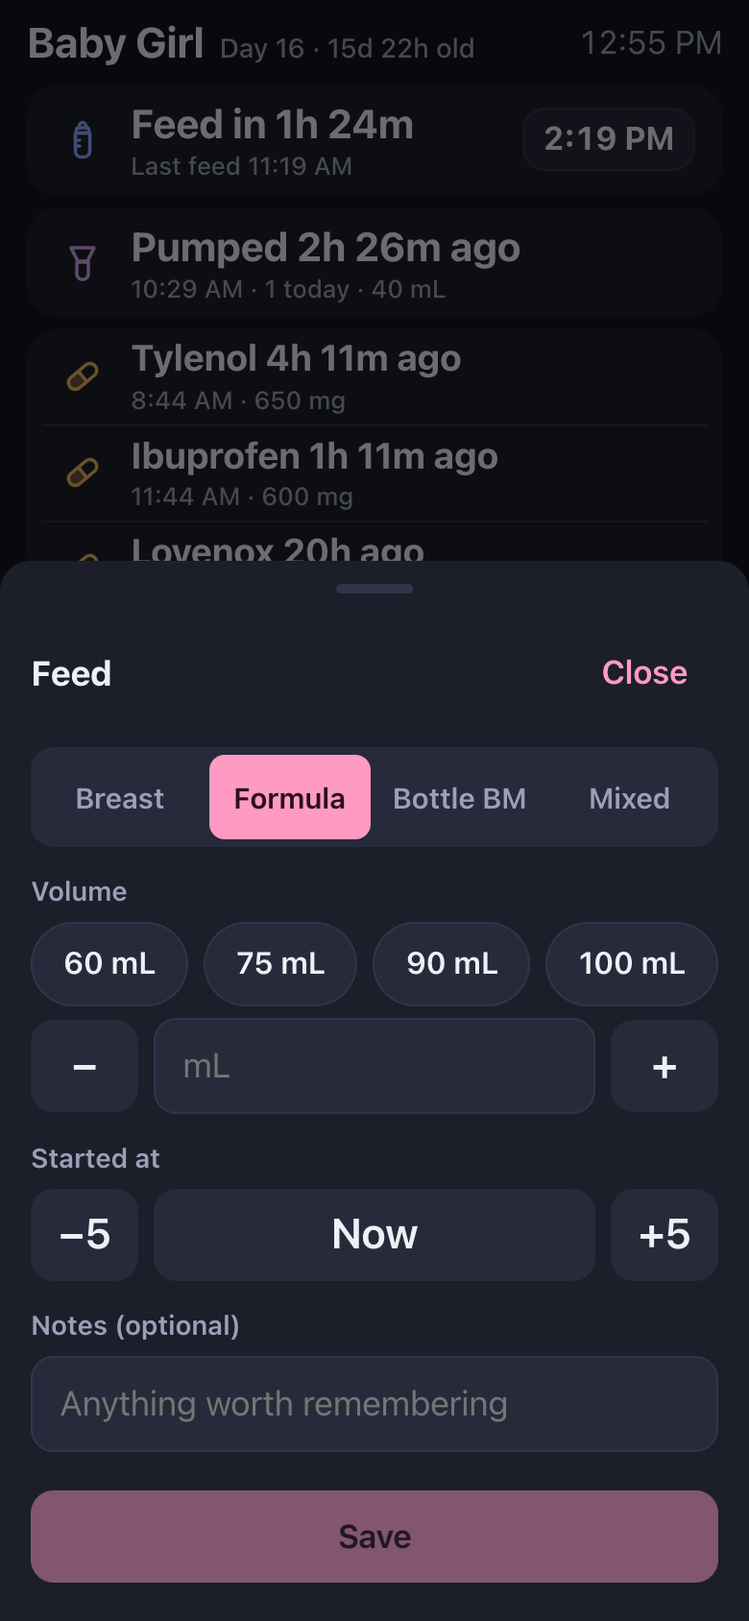
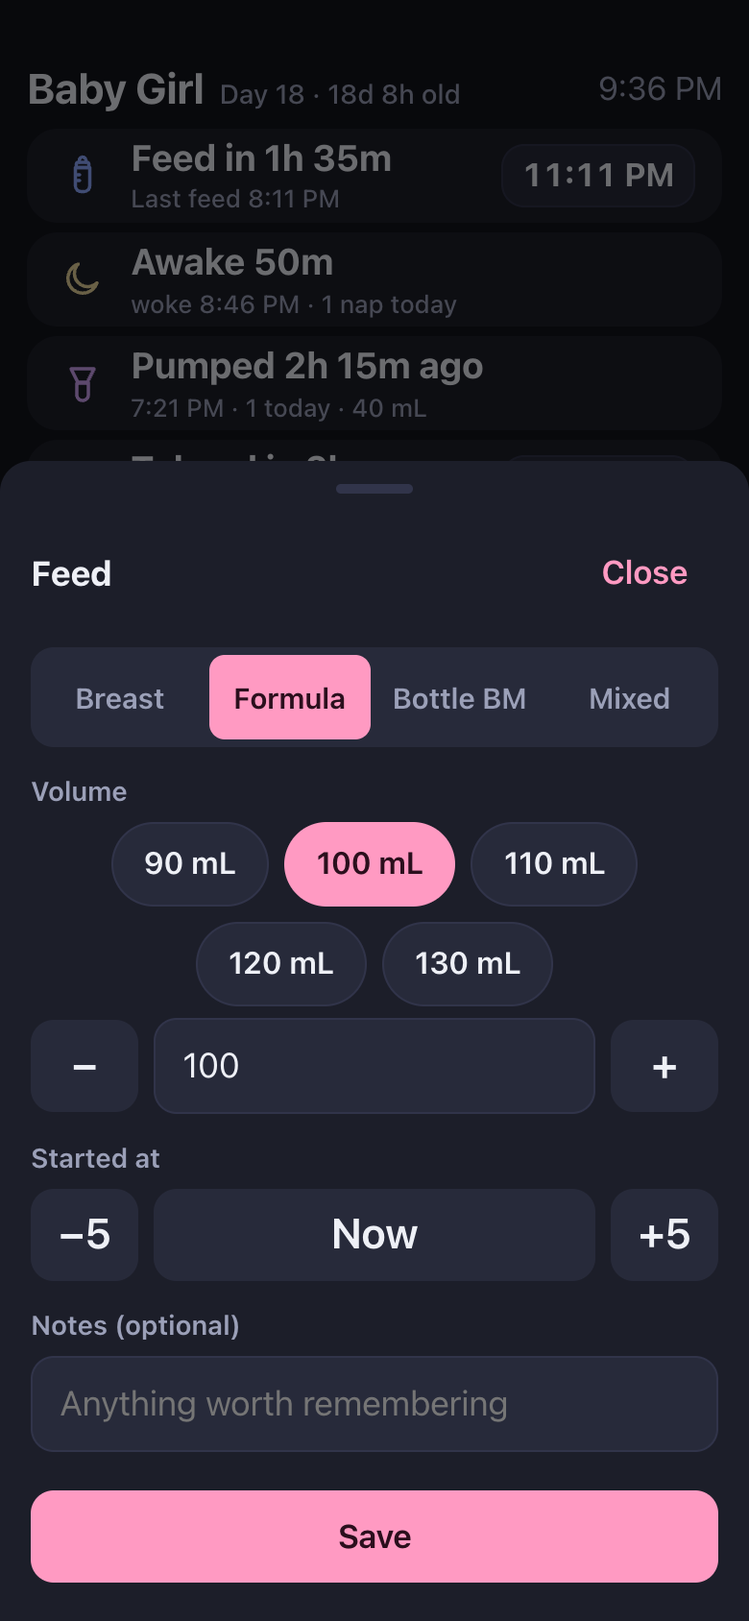
Wake-up sheet with both times; drop where/help from the sleep sheet; Marked Awake off by default; bottles start at 100 mL; release notes 1.24

diff --git a/src/components/editors.tsx b/src/components/editors.tsx
@@ -4,9 +4,10 @@ import { useUI, type EditorState } from '../ui';
 import {
   FEED_KINDS, STOOL_COLORS, STOOL_AMOUNTS, label,
   type Feed, type Diaper, type Pump, type MomMed, type Entry,
-  type FeedKind, type Side, type Latch, type StoolColor, type StoolAmount, type Med, type Sleep, type SleepHow, SLEEP_HOW, SLEEP_PLACES, type SleepPlace,
+  type FeedKind, type Side, type Latch, type StoolColor, type StoolAmount, type Med, type Sleep,
 } from '../types';
-import { isNightSleepAt, DEFAULT_NIGHT_SLEEP, defaultPlace } from '../lib/sleep';
+import { isNightSleepAt, DEFAULT_NIGHT_SLEEP } from '../lib/sleep';
+import { fmtTime } from '../lib/time';
 import { announceAwake } from './MarkedAwake';
 import { fmtDur } from '../lib/time';
 import { Sheet, Chips, Seg, Field, NumberPick, TimeField, NotesField } from './common';
@@ -53,7 +54,7 @@ export function FeedEditor({ entry, preset }: { entry?: Feed; preset?: { kind?: 
   const [kind, setKind] = useState<FeedKind>(entry?.kind ?? preset?.kind ?? ((localStorage.getItem(LAST_KIND) as FeedKind | null) || 'bottle_formula'));
   const [side, setSide] = useState<Side | undefined>(entry?.side);
   const [duration, setDuration] = useState<number | undefined>(entry?.duration_min);
-  const [volume, setVolume] = useState<number | undefined>(entry?.volume_ml);
+  const [volume, setVolume] = useState<number | undefined>(entry ? entry.volume_ml : 100);
   const [latch, setLatch] = useState<Latch | undefined>(entry?.latch_quality);
   const breast = kind === 'breast';
   const canSave = breast ? true : volume != null && volume > 0;
@@ -73,7 +74,7 @@ export function FeedEditor({ entry, preset }: { entry?: Feed; preset?: { kind?: 
           <Field label="Latch (optional)"><Chips options={[{ value: 'good', label: 'Good' }, { value: 'ok', label: 'OK' }, { value: 'poor', label: 'Poor' }]} value={latch} onChange={setLatch} /></Field>
         </>
       ) : (
-        <VolumePick label="Volume" value={volume} onChange={setVolume} presetsMl={[60, 75, 90, 100]} />
+        <VolumePick label="Volume" value={volume} onChange={setVolume} presetsMl={[90, 100, 110, 120, 130]} />
       )}
       <TimeField value={b.at} onChange={b.setAt} label="Started at" />
       <NotesField value={b.notes} onChange={b.setNotes} />
@@ -168,48 +169,45 @@ export function MedEditor({ entry, preset }: { entry?: MomMed; preset?: { med?: 
 
 export function SleepEditor({ entry }: { entry?: Sleep }) {
   const b = useEditorBase(entry);
-  const { settings, entries } = useStore();
+  const { settings } = useStore();
+  const { toast } = useUI();
   const window = settings.night_sleep ?? DEFAULT_NIGHT_SLEEP;
   const [nightTouched, setNightTouched] = useState(!!entry);
   const [nightPick, setNight] = useState<boolean>(entry?.night ?? isNightSleepAt(b.at, window));
   const night = nightTouched ? nightPick : isNightSleepAt(b.at, window);
-  const [how, setHow] = useState<SleepHow[]>(entry?.how ?? []);
-  const [endAt, setEndAt] = useState<number | null>(entry?.end_at ?? null);
-  // Where she slept: one place (where she slept most). New sleeps start where the last nap (or night) did.
-  const [placePick, setPlacePick] = useState<SleepPlace | null>(() => entry?.places?.length ? entry.places[entry.places.length - 1].place : null);
-  const [placeTouched, setPlaceTouched] = useState(!!entry);
-  const place: SleepPlace | null = placeTouched ? placePick : defaultPlace(entries, night);
-  // Tapping the pre-picked default confirms it; tapping a place you chose yourself again clears it.
-  const pickPlace = (p: SleepPlace) => { setPlacePick(placeTouched && place === p ? null : p); setPlaceTouched(true); };
-  const toggleHow = (h: SleepHow) => setHow((cur) => (cur.includes(h) ? cur.filter((x) => x !== h) : [...cur.filter((x) => x !== 'own'), h]));
+  const asleep = !!entry && entry.end_at == null;
+  // Waking her: the wake time starts at now and both times can be nudged before saving.
+  const [endAt, setEndAt] = useState<number | null>(asleep ? Date.now() : entry?.end_at ?? null);
   const bad = endAt != null && endAt <= b.at;
-  const save = (end = endAt) => b.save({ type: 'sleep', night, how: how.length ? how : undefined, places: place ? [{ at: b.at, place }] : undefined, end_at: end });
+  // Where/help are no longer asked; whatever an older sleep carries is kept as is.
+  const save = (end = endAt) => b.save({ type: 'sleep', night, how: entry?.how, places: entry?.places, end_at: end });
+  const wake = () => {
+    if (endAt == null || !entry) return;
+    save(endAt);
+    if (settings.marked_awake === true) announceAwake({ id: entry.id, at: endAt, sleptMs: endAt - b.at, place: null });
+    else toast(`Woke up at ${fmtTime(endAt)} after ${fmtDur(endAt - b.at)}`);
+  };
   return (
-    <Sheet title={b.editing ? (entry?.end_at == null ? 'Asleep' : 'Edit sleep') : 'Sleep'} onClose={b.close}>
-      <TimeField value={b.at} onChange={b.setAt} label="When" />
+    <Sheet title={asleep ? 'Woke up' : b.editing ? 'Edit sleep' : 'Sleep'} onClose={b.close}>
+      <TimeField value={b.at} onChange={b.setAt} label="Fell asleep" />
       <Seg options={[{ value: 'nap', label: 'Nap' }, { value: 'night', label: 'Night' }]} value={night ? 'night' : 'nap'} onChange={(v) => { setNightTouched(true); setNight(v === 'night'); }} />
-      <Field label="Where">
-        <div className="chips">
-          {SLEEP_PLACES.map((o) => <button key={o.value} type="button" className={`chip${place === o.value ? ' on' : ''}`} aria-pressed={place === o.value} onClick={() => pickPlace(o.value)}>{o.label}</button>)}
-        </div>
-      </Field>
-      <Field label="Help">
-        <div className="chips">
-          {SLEEP_HOW.map((o) => <button key={o.value} type="button" className={`chip${how.includes(o.value) ? ' on' : ''}`} aria-pressed={how.includes(o.value)} onClick={() => toggleHow(o.value)}>{o.label}</button>)}
-        </div>
-      </Field>
       {endAt != null ? (
         <>
           <TimeField value={endAt} onChange={setEndAt} label="Woke up" />
           {bad ? <div className="red small">Woke up has to be after she fell asleep.</div> : <div className="muted small">Slept {fmtDur(endAt - b.at)}</div>}
         </>
-      ) : b.editing ? (
-        <button type="button" className="btn block" onClick={() => { const at = Date.now(); save(at); if (settings.marked_awake !== false && entry) announceAwake({ id: entry.id, at, sleptMs: at - entry.at, place }); }}>Woke up now</button>
       ) : (
         <button type="button" className="btn ghost" style={{ alignSelf: 'flex-start', minHeight: 0, padding: 0 }} onClick={() => setEndAt(Date.now())}>Already awake? Add when she woke</button>
       )}
-      {b.editing && <NotesField value={b.notes} onChange={b.setNotes} />}
-      <Actions onSave={() => save()} onDelete={b.editing ? b.del : undefined} disabled={bad} saveLabel={b.editing ? 'Save' : endAt != null ? 'Save sleep' : 'Start sleep'} />
+      {b.editing && !asleep && <NotesField value={b.notes} onChange={b.setNotes} />}
+      {asleep ? (
+        <>
+          <Actions onSave={wake} onDelete={b.del} disabled={bad} saveLabel="Woke up" />
+          <button type="button" className="btn ghost" style={{ minHeight: 0, padding: '4px 0' }} onClick={() => save(null)}>Still asleep · just save the time she fell asleep</button>
+        </>
+      ) : (
+        <Actions onSave={() => save()} onDelete={b.editing ? b.del : undefined} disabled={bad} saveLabel={b.editing ? 'Save' : endAt != null ? 'Save sleep' : 'Start sleep'} />
+      )}
     </Sheet>
   );
 }

diff --git a/docs/release-notes/index.html b/docs/release-notes/index.html
@@ -85,13 +85,13 @@
 
 <div class="wrap">
   <header>
-    <div class="eyebrow">Release notes · Sep 12 – Nov 5, 2026</div>
+    <div class="eyebrow">Release notes · Sep 12 – Nov 8, 2026</div>
     <svg class="mark" viewBox="0 0 512 512" aria-hidden="true"><rect width="512" height="512" rx="110" fill="#12131a"/><circle cx="256" cy="256" r="172" fill="none" stroke="#ff9ac2" stroke-width="36"/><g transform="translate(124 124) scale(11)" fill="none" stroke="#ff9ac2" stroke-width="1.9" stroke-linecap="round" stroke-linejoin="round"><path d="M10.25 5.5V4.5a1.75 1.75 0 0 1 3.5 0v1"/><rect x="8.75" y="5.5" width="6.5" height="2.75" rx="1"/><path d="M8.25 8.25h7.5v9.5a3 3 0 0 1-3 3h-1.5a3 3 0 0 1-3-3z"/><path d="M8.25 12h2.25M8.25 15h2.25"/></g></svg>
     <h1>bébé <span>tracker</span></h1>
     <p class="lede">A shared logbook for a newborn's feeds, diapers, pumping and mom's meds. Two phones, one live dataset, built for one-handed use at 3 am. This page follows how it changed over its first ten days.</p>
     <div class="facts">
-      <span><b>61</b> releases</span>
-      <span><b>55</b> days</span>
+      <span><b>62</b> releases</span>
+      <span><b>58</b> days</span>
       <span><b>5</b> tabs</span>
       <span><b>45</b> automated tests</span>
       <span>Live at <a href="https://bebe.fyi">bebe.fyi</a></span>
@@ -520,6 +520,23 @@
         </ul>
         <div class="shots">
           <figure class="phone"><div class="screen"><img src="shots/today-checking.png" alt="Today while it checks for the latest data: icons and labels in place, with even full-width shimmering bars where the numbers will be." loading="lazy"></div><figcaption><b>Checking</b>Even bars, same layout.</figcaption></figure>
+        </div>
+      </div>
+    </article>
+
+    <article class="release">
+      <div class="stamp"><div class="ver">1.24</div><div class="when">Sun Nov 8</div></div>
+      <div class="body">
+        <h2>Sleep, simplified</h2>
+        <ul class="notes">
+          <li><b>Waking her up sets both times.</b> Woke up now opens a sheet with when she fell asleep and when she woke, the second starting at now. Nudge either and tap Woke up. If she's still asleep, the link underneath just saves the fell-asleep time.</li>
+          <li><b>Fewer questions.</b> The sleep sheet no longer asks where she slept or what helped. Anything already logged is kept.</li>
+          <li><b>Marked Awake is retired.</b> Waking her up is a plain note again. The switch is still in Settings for anyone who wants it.</li>
+          <li><b>Bottles start at 100 mL.</b> The Feed sheet opens on 100 with 90 to 130 one tap away, and the − / + stepper for anything in between, so a typical bottle is Feed, Save.</li>
+        </ul>
+        <div class="shots">
+          <figure class="phone"><div class="screen"><img src="shots/sheet-wake.png" alt="The Woke up sheet: fell asleep 9:26 PM, Nap or Night, woke up now, slept 10m, and a Woke up button." loading="lazy"></div><figcaption><b>Woke up</b>Both times, one button.</figcaption></figure>
+          <figure class="phone"><div class="screen"><img src="shots/sheet-feed.png" alt="The Feed sheet with Formula selected and 100 mL already filled in, with chips from 90 to 130 mL." loading="lazy"></div><figcaption><b>Feed</b>Starts at 100 mL.</figcaption></figure>
         </div>
       </div>
     </article>

diff --git a/src/App.tsx b/src/App.tsx
@@ -3,9 +3,8 @@ import { applyUpdate, updateReady } from './sw';
 import { StoreProvider, useStore } from './data/store';
 import { DemoStoreProvider } from './data/demoStore';
 import { DEMO_HID, DEMO_PATH } from './data/demo';
-import { openSleep, placeNow } from './lib/sleep';
-import { MarkedAwake, announceAwake } from './components/MarkedAwake';
-import { fmtDur, fmtTime } from './lib/time';
+import { openSleep } from './lib/sleep';
+import { MarkedAwake } from './components/MarkedAwake';
 import { resolveHid, createHousehold, joinHousehold } from './household';
 import { UIProvider, useUI } from './ui';
 import { Editor } from './components/editors';
@@ -64,16 +63,11 @@ function Shell() {
   const [summaryMode, setSummaryMode] = useState<SummaryMode>('days');
   // Each tab opens at the top; otherwise a long tab's scroll carries over and tucks the next one under the status bar.
   useEffect(() => { window.scrollTo(0, 0); }, [tab]);
-  const { editor, apptEditor, weightEditor, openEditor, toast } = useUI();
-  const { settings: tracked, entries, update } = useStore();
+  const { editor, apptEditor, weightEditor, openEditor } = useUI();
+  const { settings: tracked, entries } = useStore();
   const asleep = tracked.sleep_enabled !== false ? openSleep(entries) : null;
-  const wokeUp = () => {
-    if (!asleep) return;
-    const at = Date.now();
-    void update(asleep.id, { end_at: at });
-    if (tracked.marked_awake !== false) announceAwake({ id: asleep.id, at, sleptMs: at - asleep.at, place: placeNow(asleep) });
-    else toast(`Woke up at ${fmtTime(at)} after ${fmtDur(at - asleep.at)}`, () => { void update(asleep.id, { end_at: null }); });
-  };
+  // Woke up opens the wake-up sheet so both times can be set before saving.
+  const wokeUp = () => { if (asleep) openEditor('sleep', { entry: asleep }); };
   // Switched-off types leave the dock; the rest keep their order so positions stay familiar.
   const dock = [
     { key: 'feed', label: 'Feed', on: true, act: () => openEditor('feed') },

diff --git a/docs/guide/index.html b/docs/guide/index.html
@@ -111,7 +111,7 @@
       <div class="tip"><b>Wet is two taps.</b>Diaper, then Wet, saved. Dirty asks for a colour, and the colour tap saves.</div>
       <div class="tip"><b>Made a mistake?</b>Tap an entry to edit. Swipe left to delete. Undo sits at the bottom for ten seconds.</div>
       <div class="tip"><b>Mom's meds count down too.</b>Enter the hours between doses in Settings. The app never suggests an interval or a dose.</div>
-      <div class="tip"><b>Sleep is one button.</b>Tap Sleep when she drifts off: where (contact, bassinet, stroller) and any help (held, carrier, pacifier). While she sleeps the button reads Woke up; one tap ends it.</div>
+      <div class="tip"><b>Sleep is one button.</b>Tap Sleep when she drifts off. While she sleeps the button reads Woke up: tap it, nudge either time if you need to, and save.</div>
       <div class="tip"><b>Longer stretches at night?</b>Settings → Feed timer → Different at night. A feed that starts after night begins counts down the night hours.</div>
       <div class="tip"><b>No signal, no problem.</b>Entries save on the phone and sync when you're back online.</div>
     </div>

diff --git a/src/screens/Settings.tsx b/src/screens/Settings.tsx
@@ -210,7 +210,7 @@ export function Settings() {
             </div>
             <div className="muted small">A sleep that starts in this window is logged as night sleep, anything else as a nap, and you can flip it when you log. Bedtime is the first night sleep of each evening.</div>
             <Field label="Marked Awake card when she wakes">
-              <Seg<'on' | 'off'> options={[{ value: 'on', label: 'On' }, { value: 'off', label: 'Off' }]} value={settings.marked_awake === false ? 'off' : 'on'} onChange={(v) => void saveSettings({ marked_awake: v === 'on' })} />
+              <Seg<'on' | 'off'> options={[{ value: 'on', label: 'On' }, { value: 'off', label: 'Off' }]} value={settings.marked_awake === true ? 'on' : 'off'} onChange={(v) => void saveSettings({ marked_awake: v === 'on' })} />
             </Field>
           </>
         ) : (

diff --git a/src/components/SleepDiary.tsx b/src/components/SleepDiary.tsx
@@ -78,8 +78,7 @@ export function SleepDiary() {
             </div>
           );
         })}
-        <div className="diary-key muted small"><b className="diary-bar" /> bassinet <b className="diary-bar p-contact" /> contact <b className="diary-bar p-stroller" /> stroller <em className="diary-dot" /> feed</div>
-        <div className="muted small">Faded bars are naps. Bars without a place logged are solid.</div>
+        <div className="diary-key muted small"><b className="diary-bar" /> sleep <b className="diary-bar nap" /> nap <em className="diary-dot" /> feed</div>
       </div>
 
       {thisWeek.nights > 0 && (

diff --git a/AGENTS.md b/AGENTS.md
@@ -14,7 +14,7 @@ No accounts. The household id in the URL path (`/h/<24+ char token>`, legacy `#h
 `/demo` is a made-up household held in memory only (`src/data/demo.ts`, dated relative to now in the device's time zone; `DemoStoreProvider` in `src/data/demoStore.tsx` implements the same `Store`). It never touches Firestore or this device's saved household; Settings shows a "Start your own household" card and hides sharing, switching and delete. `store.demo` is true there.
 
 ## Data
-- `households/{hid}/entries/{id}`: one collection, discriminated by `type` (`feed | diaper | pump | mom_med | sleep`). A sleep runs from `at` (fell asleep) to `end_at` (woke up; null while asleep), carries `night` (pre-picked from `settings.night_sleep`, default 19:00–07:00, flippable) and optional `how[]`: help falling asleep (held, `bjorn` = carrier, pacifier), offered on every sleep; none means on her own. Feeding and rocking aren't offered (she always goes down after a feed; rocked counts as held); legacy `feeding`/`own`/`rocking` values still display. Optional `places[]` holds one {at, place} (contact, bassinet, stroller): where she slept most. Transfers aren't tracked (Eric's call, 2026-10-31): if she wakes and moves, log a new sleep. The field is an array only because a few early sleeps carry a move; the trail still displays for those. New sleeps default to where the last nap or night started (`defaultPlace`). Sleep math lives in `src/lib/sleep.ts`: daily totals split at midnight, a night is named by its evening (`nightKey`), bedtime/first stretch/longest stretch come from `nightStats`. Bilirubin tracking from the spec was dropped on 2026-09-12 at Eric's request; unknown `type` values are filtered out on read. Weight came back on 2026-09-14 as its own collection `households/{hid}/weights/{id}` (grams stored, shown as lb/oz first; first entry = birth weight). Appointments live in `households/{hid}/appointments/{id}`. Timestamps are epoch ms; `day` is the America/New_York calendar day computed at write time (`src/lib/time.ts`). Soft delete via `deleted_at`.
+- `households/{hid}/entries/{id}`: one collection, discriminated by `type` (`feed | diaper | pump | mom_med | sleep`). A sleep runs from `at` (fell asleep) to `end_at` (woke up; null while asleep), carries `night` (pre-picked from `settings.night_sleep`, default 19:00–07:00, flippable) and legacy optional `how[]` (help falling asleep) and `places[]` (where she slept). Since 2026-11-08 the sheet no longer asks for either (Eric didn't use them); existing values are kept and still display. Sleep math lives in `src/lib/sleep.ts`: daily totals split at midnight, a night is named by its evening (`nightKey`), bedtime/first stretch/longest stretch come from `nightStats`. Bilirubin tracking from the spec was dropped on 2026-09-12 at Eric's request; unknown `type` values are filtered out on read. Weight came back on 2026-09-14 as its own collection `households/{hid}/weights/{id}` (grams stored, shown as lb/oz first; first entry = birth weight). Appointments live in `households/{hid}/appointments/{id}`. Timestamps are epoch ms; `day` is the America/New_York calendar day computed at write time (`src/lib/time.ts`). Soft delete via `deleted_at`.
 - `households/{hid}/settings/main`: singleton, written whole (no merge). Carries `tz` (IANA; missing = America/New_York for pre-existing households; new ones get the creating device's zone), `units` (volume ml|oz, weight lb|g; both always stored, display only), `custom_meds` (names; a custom med's key is its name), `users.other`.
 - The entries listener is scoped to the last 30 days (`where at >=`); older entries load on demand via `loadOlder()` (Summary button, exports). `day` is recomputed on read from `at` in the household tz.
 - Export (CSV/JSON) and delete-household live in Settings (`src/lib/export.ts`, `deleteHousehold` in the store). Feedback address in `src/config.ts`.
@@ -29,14 +29,14 @@ The repo is public (github.com/esp8879/bebe-tracker). Commit as `esp8879 <695531
 - `npm run deploy` = build + `firebase deploy --only hosting,firestore`
 
 ## Screens
-Tabs: Today · Summary (By day / All entries) · Weight · Appts · Settings. Summary has a third view, Sleep (`src/components/SleepDiary.tsx`): a 14-night diary (6 PM–8 AM rows, bars and feed dots) and a last-7-vs-previous-7 table. Once 3 nights are logged, Today's weight card becomes the `NightsCard` (first stretch of the last 7 nights), which opens Summary on Sleep via `useNav().setSummaryMode`. Today must fit an iPhone without scrolling (measure at 393x759, an iPhone 15 minus its insets) in every combination of tracked types: feed card, sleep card, pump card, meds card (with sleep on, several med rows fold into one, so four timer rows max; `roomy` spacing at three rows or fewer when diapers aren't also on), Today so far, weight + next appointment side by side, quick-log dock above the tab bar. `settings.today_mode` (`countdown` | `last`) switches the pump and meds cards between countdowns from intervals and last-time-only rows (`recentDoses`, meds dosed in the last 24 hours); `settings.pump_interval_min` is optional. `settings.night_feeds` ({enabled, interval_min, start, end}, household-local HH:MM, may wrap midnight) gives the feed timer a second interval; it is chosen by when the LAST feed started (`isNightAt` in `src/lib/timers.ts`), never by when the next one lands. Today's feed line then reads "Last feed 10:15 PM · night, 4h". `settings.meds_enabled === false` hides the meds card, greys the dock's Meds button (tap shows a toast) and hides the med interval and rotation settings; history and intervals are kept. The dock lists only tracked types, in a fixed order (Feed, Sleep, Diaper, Pump, Meds); while she's asleep Sleep reads "Woke up" and one tap ends the sleep with an Undo toast. With sleep on, diaper counts move from tiles to a line under them. `settings.sleep_enabled === false` hides sleep everywhere but All entries and exports. `settings.diapers_enabled === false` does the same for diapers: hides the diaper tiles on Today and the diaper columns in the Summary table, greys the dock's Diaper button; entries stay in All entries and exports.
+Tabs: Today · Summary (By day / All entries) · Weight · Appts · Settings. Summary has a third view, Sleep (`src/components/SleepDiary.tsx`): a 14-night diary (6 PM–8 AM rows, bars and feed dots) and a last-7-vs-previous-7 table. Once 3 nights are logged, Today's weight card becomes the `NightsCard` (first stretch of the last 7 nights), which opens Summary on Sleep via `useNav().setSummaryMode`. Today must fit an iPhone without scrolling (measure at 393x759, an iPhone 15 minus its insets) in every combination of tracked types: feed card, sleep card, pump card, meds card (with sleep on, several med rows fold into one, so four timer rows max; `roomy` spacing at three rows or fewer when diapers aren't also on), Today so far, weight + next appointment side by side, quick-log dock above the tab bar. `settings.today_mode` (`countdown` | `last`) switches the pump and meds cards between countdowns from intervals and last-time-only rows (`recentDoses`, meds dosed in the last 24 hours); `settings.pump_interval_min` is optional. `settings.night_feeds` ({enabled, interval_min, start, end}, household-local HH:MM, may wrap midnight) gives the feed timer a second interval; it is chosen by when the LAST feed started (`isNightAt` in `src/lib/timers.ts`), never by when the next one lands. Today's feed line then reads "Last feed 10:15 PM · night, 4h". `settings.meds_enabled === false` hides the meds card, greys the dock's Meds button (tap shows a toast) and hides the med interval and rotation settings; history and intervals are kept. The dock lists only tracked types, in a fixed order (Feed, Sleep, Diaper, Pump, Meds); while she's asleep Sleep reads "Woke up" and opens the wake-up sheet (fell-asleep and woke-up times, woke-up defaulting to now; "Woke up" saves). With sleep on, diaper counts move from tiles to a line under them. `settings.sleep_enabled === false` hides sleep everywhere but All entries and exports. `settings.diapers_enabled === false` does the same for diapers: hides the diaper tiles on Today and the diaper columns in the Summary table, greys the dock's Diaper button; entries stay in All entries and exports.
 
 ## Conventions
 - iOS 26 home-screen apps blur a band ~40pt below the status bar (`black-translucent`). Screens start at `env(safe-area-inset-top) + 30px` or more; don't put content higher.
 - Store mL and grams; display order follows `settings.units` via `src/lib/units.ts` (`setUnits`, `fmtMl`, `volValue`, `fmtWeight`). All time formatting goes through `src/lib/time.ts` which reads the household tz (`setTimezone`); never call Intl with a hardcoded zone elsewhere.
 - Every common action should stay 1–3 taps; time fields default to now.
 - Med intervals are blank by default and entered by the user from discharge instructions.
-- The "Marked Awake" card (`src/components/MarkedAwake.tsx`, shown on Woke up when `settings.marked_awake !== false`; new households start with it off) is a deliberate homage to the old safety check-in: its own flag drawing, Helvetica, white card (dark between the night-sleep hours). It's the one place outside the icon family and the app's type. Rotating lines live in that file.
+- The "Marked Awake" card (`src/components/MarkedAwake.tsx`, shown on Woke up only when `settings.marked_awake === true`, off by default since 2026-11-08) is a deliberate homage to the old safety check-in: its own flag drawing, Helvetica, white card (dark between the night-sleep hours). It's the one place outside the icon family and the app's type. Rotating lines live in that file.
 - No emoji in the UI. Icons come from `src/components/Icon.tsx` (24px grid, 1.75px rounded stroke; `Mark` is the app icon) and appear only in the tab bar, the dock, the left edge of list rows and the app mark. Per-type tints (`--t-feed` etc.) go on glyphs only. Accent is the icon's pink; periwinkle (`--chart`) is for the weight chart and the feed tint. The wordmark (`.wordmark`) is the only use of Nunito (`public/fonts`). `scripts/icons.mjs` rasterizes `public/icon.svg` into the PNGs.
 
 ## Public pages

diff --git a/CLAUDE.md b/CLAUDE.md
@@ -14,7 +14,7 @@ No accounts. The household id in the URL path (`/h/<24+ char token>`, legacy `#h
 `/demo` is a made-up household held in memory only (`src/data/demo.ts`, dated relative to now in the device's time zone; `DemoStoreProvider` in `src/data/demoStore.tsx` implements the same `Store`). It never touches Firestore or this device's saved household; Settings shows a "Start your own household" card and hides sharing, switching and delete. `store.demo` is true there.
 
 ## Data
-- `households/{hid}/entries/{id}`: one collection, discriminated by `type` (`feed | diaper | pump | mom_med | sleep`). A sleep runs from `at` (fell asleep) to `end_at` (woke up; null while asleep), carries `night` (pre-picked from `settings.night_sleep`, default 19:00–07:00, flippable) and optional `how[]`: help falling asleep (held, `bjorn` = carrier, pacifier), offered on every sleep; none means on her own. Feeding and rocking aren't offered (she always goes down after a feed; rocked counts as held); legacy `feeding`/`own`/`rocking` values still display. Optional `places[]` holds one {at, place} (contact, bassinet, stroller): where she slept most. Transfers aren't tracked (Eric's call, 2026-10-31): if she wakes and moves, log a new sleep. The field is an array only because a few early sleeps carry a move; the trail still displays for those. New sleeps default to where the last nap or night started (`defaultPlace`). Sleep math lives in `src/lib/sleep.ts`: daily totals split at midnight, a night is named by its evening (`nightKey`), bedtime/first stretch/longest stretch come from `nightStats`. Bilirubin tracking from the spec was dropped on 2026-09-12 at Eric's request; unknown `type` values are filtered out on read. Weight came back on 2026-09-14 as its own collection `households/{hid}/weights/{id}` (grams stored, shown as lb/oz first; first entry = birth weight). Appointments live in `households/{hid}/appointments/{id}`. Timestamps are epoch ms; `day` is the America/New_York calendar day computed at write time (`src/lib/time.ts`). Soft delete via `deleted_at`.
+- `households/{hid}/entries/{id}`: one collection, discriminated by `type` (`feed | diaper | pump | mom_med | sleep`). A sleep runs from `at` (fell asleep) to `end_at` (woke up; null while asleep), carries `night` (pre-picked from `settings.night_sleep`, default 19:00–07:00, flippable) and legacy optional `how[]` (help falling asleep) and `places[]` (where she slept). Since 2026-11-08 the sheet no longer asks for either (Eric didn't use them); existing values are kept and still display. Sleep math lives in `src/lib/sleep.ts`: daily totals split at midnight, a night is named by its evening (`nightKey`), bedtime/first stretch/longest stretch come from `nightStats`. Bilirubin tracking from the spec was dropped on 2026-09-12 at Eric's request; unknown `type` values are filtered out on read. Weight came back on 2026-09-14 as its own collection `households/{hid}/weights/{id}` (grams stored, shown as lb/oz first; first entry = birth weight). Appointments live in `households/{hid}/appointments/{id}`. Timestamps are epoch ms; `day` is the America/New_York calendar day computed at write time (`src/lib/time.ts`). Soft delete via `deleted_at`.
 - `households/{hid}/settings/main`: singleton, written whole (no merge). Carries `tz` (IANA; missing = America/New_York for pre-existing households; new ones get the creating device's zone), `units` (volume ml|oz, weight lb|g; both always stored, display only), `custom_meds` (names; a custom med's key is its name), `users.other`.
 - The entries listener is scoped to the last 30 days (`where at >=`); older entries load on demand via `loadOlder()` (Summary button, exports). `day` is recomputed on read from `at` in the household tz.
 - Export (CSV/JSON) and delete-household live in Settings (`src/lib/export.ts`, `deleteHousehold` in the store). Feedback address in `src/config.ts`.
@@ -29,14 +29,14 @@ The repo is public (github.com/esp8879/bebe-tracker). Commit as `esp8879 <695531
 - `npm run deploy` = build + `firebase deploy --only hosting,firestore`
 
 ## Screens
-Tabs: Today · Summary (By day / All entries) · Weight · Appts · Settings. Summary has a third view, Sleep (`src/components/SleepDiary.tsx`): a 14-night diary (6 PM–8 AM rows, bars and feed dots) and a last-7-vs-previous-7 table. Once 3 nights are logged, Today's weight card becomes the `NightsCard` (first stretch of the last 7 nights), which opens Summary on Sleep via `useNav().setSummaryMode`. Today must fit an iPhone without scrolling (measure at 393x759, an iPhone 15 minus its insets) in every combination of tracked types: feed card, sleep card, pump card, meds card (with sleep on, several med rows fold into one, so four timer rows max; `roomy` spacing at three rows or fewer when diapers aren't also on), Today so far, weight + next appointment side by side, quick-log dock above the tab bar. `settings.today_mode` (`countdown` | `last`) switches the pump and meds cards between countdowns from intervals and last-time-only rows (`recentDoses`, meds dosed in the last 24 hours); `settings.pump_interval_min` is optional. `settings.night_feeds` ({enabled, interval_min, start, end}, household-local HH:MM, may wrap midnight) gives the feed timer a second interval; it is chosen by when the LAST feed started (`isNightAt` in `src/lib/timers.ts`), never by when the next one lands. Today's feed line then reads "Last feed 10:15 PM · night, 4h". `settings.meds_enabled === false` hides the meds card, greys the dock's Meds button (tap shows a toast) and hides the med interval and rotation settings; history and intervals are kept. The dock lists only tracked types, in a fixed order (Feed, Sleep, Diaper, Pump, Meds); while she's asleep Sleep reads "Woke up" and one tap ends the sleep with an Undo toast. With sleep on, diaper counts move from tiles to a line under them. `settings.sleep_enabled === false` hides sleep everywhere but All entries and exports. `settings.diapers_enabled === false` does the same for diapers: hides the diaper tiles on Today and the diaper columns in the Summary table, greys the dock's Diaper button; entries stay in All entries and exports.
+Tabs: Today · Summary (By day / All entries) · Weight · Appts · Settings. Summary has a third view, Sleep (`src/components/SleepDiary.tsx`): a 14-night diary (6 PM–8 AM rows, bars and feed dots) and a last-7-vs-previous-7 table. Once 3 nights are logged, Today's weight card becomes the `NightsCard` (first stretch of the last 7 nights), which opens Summary on Sleep via `useNav().setSummaryMode`. Today must fit an iPhone without scrolling (measure at 393x759, an iPhone 15 minus its insets) in every combination of tracked types: feed card, sleep card, pump card, meds card (with sleep on, several med rows fold into one, so four timer rows max; `roomy` spacing at three rows or fewer when diapers aren't also on), Today so far, weight + next appointment side by side, quick-log dock above the tab bar. `settings.today_mode` (`countdown` | `last`) switches the pump and meds cards between countdowns from intervals and last-time-only rows (`recentDoses`, meds dosed in the last 24 hours); `settings.pump_interval_min` is optional. `settings.night_feeds` ({enabled, interval_min, start, end}, household-local HH:MM, may wrap midnight) gives the feed timer a second interval; it is chosen by when the LAST feed started (`isNightAt` in `src/lib/timers.ts`), never by when the next one lands. Today's feed line then reads "Last feed 10:15 PM · night, 4h". `settings.meds_enabled === false` hides the meds card, greys the dock's Meds button (tap shows a toast) and hides the med interval and rotation settings; history and intervals are kept. The dock lists only tracked types, in a fixed order (Feed, Sleep, Diaper, Pump, Meds); while she's asleep Sleep reads "Woke up" and opens the wake-up sheet (fell-asleep and woke-up times, woke-up defaulting to now; "Woke up" saves). With sleep on, diaper counts move from tiles to a line under them. `settings.sleep_enabled === false` hides sleep everywhere but All entries and exports. `settings.diapers_enabled === false` does the same for diapers: hides the diaper tiles on Today and the diaper columns in the Summary table, greys the dock's Diaper button; entries stay in All entries and exports.
 
 ## Conventions
 - iOS 26 home-screen apps blur a band ~40pt below the status bar (`black-translucent`). Screens start at `env(safe-area-inset-top) + 30px` or more; don't put content higher.
 - Store mL and grams; display order follows `settings.units` via `src/lib/units.ts` (`setUnits`, `fmtMl`, `volValue`, `fmtWeight`). All time formatting goes through `src/lib/time.ts` which reads the household tz (`setTimezone`); never call Intl with a hardcoded zone elsewhere.
 - Every common action should stay 1–3 taps; time fields default to now.
 - Med intervals are blank by default and entered by the user from discharge instructions.
-- The "Marked Awake" card (`src/components/MarkedAwake.tsx`, shown on Woke up when `settings.marked_awake !== false`; new households start with it off) is a deliberate homage to the old safety check-in: its own flag drawing, Helvetica, white card (dark between the night-sleep hours). It's the one place outside the icon family and the app's type. Rotating lines live in that file.
+- The "Marked Awake" card (`src/components/MarkedAwake.tsx`, shown on Woke up only when `settings.marked_awake === true`, off by default since 2026-11-08) is a deliberate homage to the old safety check-in: its own flag drawing, Helvetica, white card (dark between the night-sleep hours). It's the one place outside the icon family and the app's type. Rotating lines live in that file.
 - No emoji in the UI. Icons come from `src/components/Icon.tsx` (24px grid, 1.75px rounded stroke; `Mark` is the app icon) and appear only in the tab bar, the dock, the left edge of list rows and the app mark. Per-type tints (`--t-feed` etc.) go on glyphs only. Accent is the icon's pink; periwinkle (`--chart`) is for the weight chart and the feed tint. The wordmark (`.wordmark`) is the only use of Nunito (`public/fonts`). `scripts/icons.mjs` rasterizes `public/icon.svg` into the PNGs.
 
 ## Public pages
